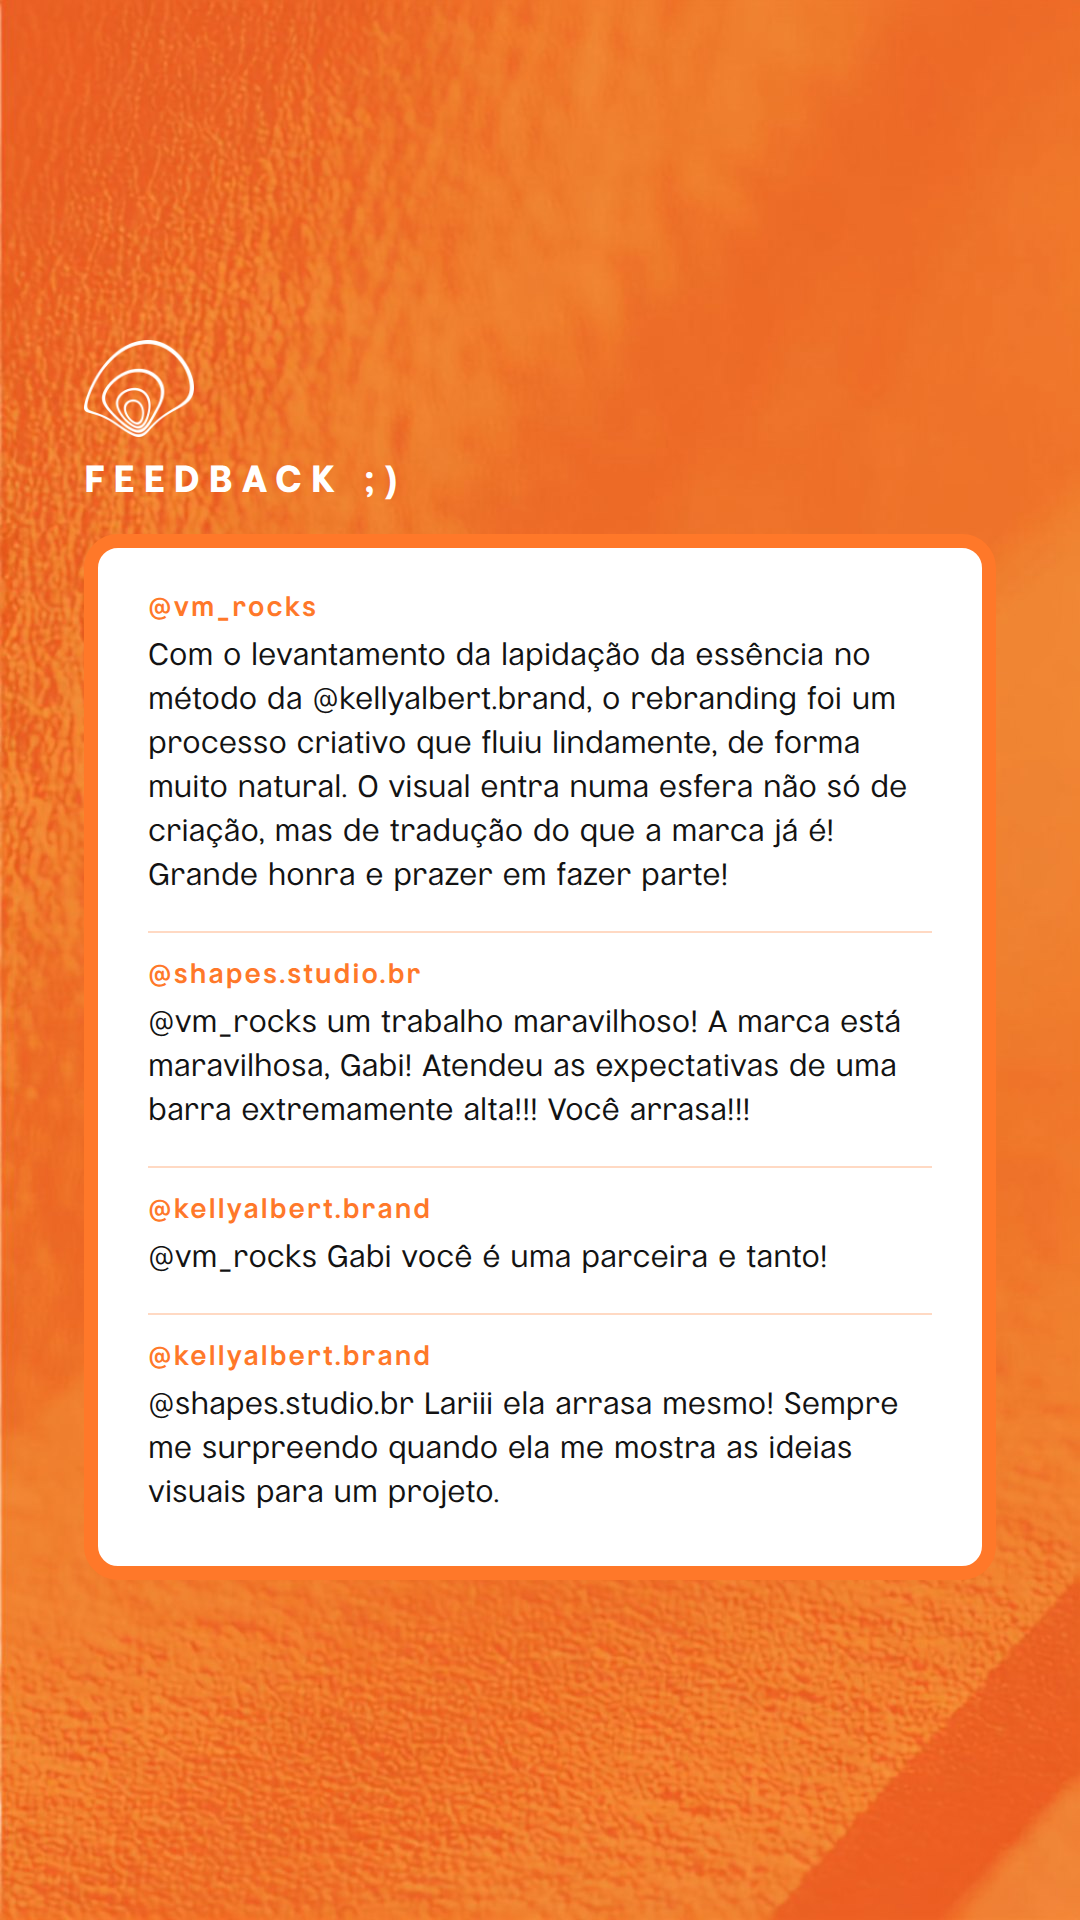
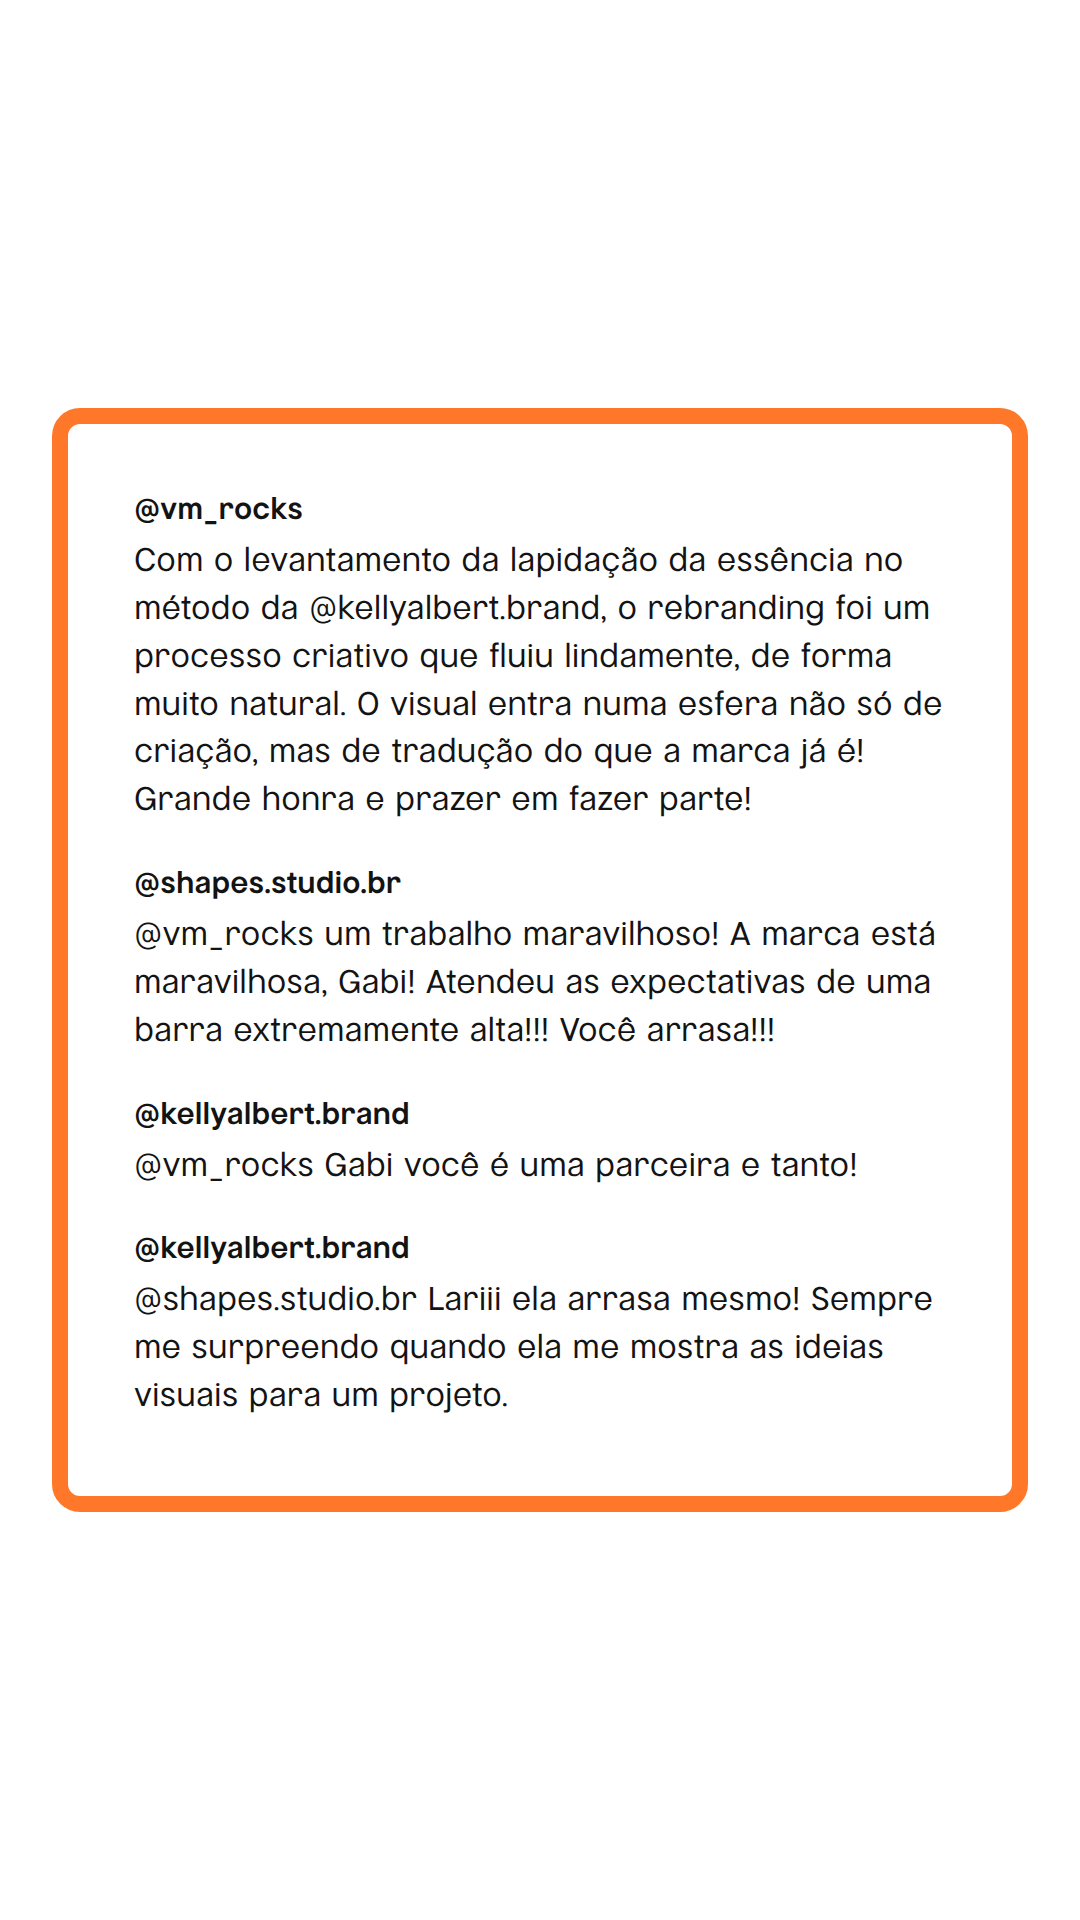
Reduz o card dos comentarios a borda laranja
A Kelly pediu so a borda: sem "FEEDBACK ;)", sem fundo texturizado e sem
trocar a cor de nenhum texto. Fala e @ agora saem os dois em #131313, a
tinta do sistema da Shapes.

O laranja #FF7829 da borda virou o unico elemento de marca da peca. E ele
que a faz ser da Shapes, entao o tom nao pode mudar.

A borda fica recuada 52 px da aresta: story tem area de corte, e borda
colada na beira e a primeira coisa que o aplicativo come.

Claude-Session: https://claude.ai/code/session_015YunUeG4gdRR6urYHdkvAD

diff --git a/arte/shapes/cards-feedback-shapes.html b/arte/shapes/cards-feedback-shapes.html
@@ -2,23 +2,19 @@
 <html lang="pt-BR">
 <head>
 <meta charset="UTF-8">
-<title>Card de feedback · Shapes</title>
+<title>Comentários do case · Shapes</title>
 <!--
-  MOLDURA OFICIAL DE FEEDBACK DA SHAPES, com a thread inteira.
-  Estrutura, cores, tipografia e logo vêm de card-storie-shapes-feedback.
+  OS COMENTÁRIOS DO POST DO CASE, COM BORDA LARANJA. Só isso.
 
-  DUAS MUDANÇAS DECLARADAS sobre o padrão:
+  Sem "FEEDBACK ;)", sem fundo texturizado, sem @ colorido: a Kelly pediu
+  a peça reduzida à borda. O laranja #FF7829 é o da Shapes e é o único
+  elemento de marca que restou — é ele que faz a peça ser da Shapes.
 
-  1. SEM ESTRELAS. A linha de estrelas representa uma NOTA. Comentário de
-     Instagram não tem nota: marcar cinco seria fabricar um dado que
-     ninguém deu, e a regra da marca proíbe fabricar depoimento.
-
-  2. BORDA LARANJA no card branco. Sem ela, card branco sobre fundo
-     laranja texturizado não tem aresta: o branco só vaza no fundo. A
-     borda fecha o card e é o que sustenta quatro vozes num bloco só.
+  Texto em #131313, a tinta do sistema da marca, igual para fala e para
+  @: nenhuma cor de texto foi trocada.
 
   CONTEÚDO: transcrição literal dos quatro comentários, sem corte e sem
-  reescrita. Só a quebra de linha é nossa, que é o que a regra pede.
+  reescrita.
 -->
 <style>
 @font-face{font-family:'Montilla';font-weight:300;font-style:normal;src:url('../../assets/shapes/feedback/fonts/montilla-300.woff2') format('woff2');}
@@ -29,55 +25,46 @@
 :root{--orange:#FF7829;--ink:#131313;--brandfont:'Montilla',system-ui,sans-serif;}
 *{box-sizing:border-box;margin:0;padding:0;}
 body{background:#eee;display:flex;flex-wrap:wrap;gap:24px;justify-content:center;}
+
 .postcard{--h:1920px;position:relative;width:1080px;height:var(--h);overflow:hidden;
-  background:var(--orange);font-family:var(--brandfont);}
-.bg{position:absolute;inset:0;width:100%;height:100%;object-fit:cover;object-position:center;z-index:0;}
-.content{position:absolute;inset:0;display:flex;flex-direction:column;justify-content:center;
-  align-items:flex-start;padding:96px 84px;z-index:2;}
-.logo{width:110px;height:auto;display:block;margin-bottom:26px;}
-.kicker{color:#fff;font-weight:700;font-size:38px;letter-spacing:9px;text-transform:uppercase;margin-bottom:30px;}
+  background:#fff;font-family:var(--brandfont);
+  display:flex;align-items:center;justify-content:center;padding:52px;}
 
-/* Card branco com a borda que a Kelly pediu. */
-.cardbox{width:100%;background:#fff;border:14px solid var(--orange);border-radius:34px;
-  padding:48px 50px;}
+/* A borda. Recuada da aresta do quadro porque story tem area de corte:
+   borda colada na beira e a primeira coisa que o aplicativo come. */
+.moldura{width:100%;border:16px solid var(--orange);border-radius:28px;
+  padding:72px 66px;}
 
-/* Cada voz é um bloco: @ em laranja, fala em tinta. O fio separa as
-   vozes sem virar uma caixa dentro da outra. */
-.fala + .fala{margin-top:30px;padding-top:30px;border-top:2px solid rgba(255,120,41,0.28);}
-.quem{color:var(--orange);font-weight:600;font-size:27px;letter-spacing:2px;margin-bottom:12px;}
-.diz{font-weight:400;color:var(--ink);font-size:31px;line-height:1.42;white-space:pre-line;}
+.fala + .fala{margin-top:42px;}
+.quem{color:var(--ink);font-weight:600;font-size:30px;margin-bottom:12px;}
+.diz{color:var(--ink);font-weight:400;font-size:33px;line-height:1.45;}
 </style>
 </head>
 <body>
 
 <div class="postcard" style="--h:1920px">
-  <img class="bg" src="../../assets/shapes/feedback/fundo-shapes.jpg" alt="">
-  <div class="content">
-    <img class="logo" src="../../assets/shapes/feedback/shapes-logo-branco.png" alt="Shapes">
-    <div class="kicker">FEEDBACK ;)</div>
-    <div class="cardbox">
+  <div class="moldura">
 
-      <div class="fala">
-        <div class="quem">@vm_rocks</div>
-        <div class="diz">Com o levantamento da lapidação da essência no método da @kellyalbert.brand, o rebranding foi um processo criativo que fluiu lindamente, de forma muito natural. O visual entra numa esfera não só de criação, mas de tradução do que a marca já é! Grande honra e prazer em fazer parte!</div>
-      </div>
-
-      <div class="fala">
-        <div class="quem">@shapes.studio.br</div>
-        <div class="diz">@vm_rocks um trabalho maravilhoso! A marca está maravilhosa, Gabi! Atendeu as expectativas de uma barra extremamente alta!!! Você arrasa!!!</div>
-      </div>
-
-      <div class="fala">
-        <div class="quem">@kellyalbert.brand</div>
-        <div class="diz">@vm_rocks Gabi você é uma parceira e tanto!</div>
-      </div>
-
-      <div class="fala">
-        <div class="quem">@kellyalbert.brand</div>
-        <div class="diz">@shapes.studio.br Lariii ela arrasa mesmo! Sempre me surpreendo quando ela me mostra as ideias visuais para um projeto.</div>
-      </div>
-
+    <div class="fala">
+      <div class="quem">@vm_rocks</div>
+      <div class="diz">Com o levantamento da lapidação da essência no método da @kellyalbert.brand, o rebranding foi um processo criativo que fluiu lindamente, de forma muito natural. O visual entra numa esfera não só de criação, mas de tradução do que a marca já é! Grande honra e prazer em fazer parte!</div>
     </div>
+
+    <div class="fala">
+      <div class="quem">@shapes.studio.br</div>
+      <div class="diz">@vm_rocks um trabalho maravilhoso! A marca está maravilhosa, Gabi! Atendeu as expectativas de uma barra extremamente alta!!! Você arrasa!!!</div>
+    </div>
+
+    <div class="fala">
+      <div class="quem">@kellyalbert.brand</div>
+      <div class="diz">@vm_rocks Gabi você é uma parceira e tanto!</div>
+    </div>
+
+    <div class="fala">
+      <div class="quem">@kellyalbert.brand</div>
+      <div class="diz">@shapes.studio.br Lariii ela arrasa mesmo! Sempre me surpreendo quando ela me mostra as ideias visuais para um projeto.</div>
+    </div>
+
   </div>
 </div>
 

diff --git a/arte/shapes/LEIA-ME-feedback.md b/arte/shapes/LEIA-ME-feedback.md
@@ -1,42 +1,35 @@
-# Card de feedback · Shapes
+# Comentários do case · Shapes
 
-A thread inteira do post do case, num card só, na moldura oficial de
-feedback da Shapes.
+Os quatro comentários do post, num card só, com borda laranja.
 
 | Arquivo | Formato |
 |---|---|
 | `feedback-thread-shapes-story.png` | 1080×1920 |
 
-Estrutura, cores, tipografia e logo vêm do padrão oficial da marca
-(`card-storie-shapes-feedback`).
+## Só a borda
 
-## Duas mudanças declaradas sobre o padrão
+A peça foi reduzida ao pedido: sem "FEEDBACK ;)", sem fundo texturizado,
+sem `@` colorido. Texto todo em `#131313`, a tinta do sistema da Shapes,
+igual para a fala e para o `@` — nenhuma cor de texto foi trocada.
 
-**Borda laranja no card branco.** Sem ela, card branco sobre fundo laranja
-texturizado não tem aresta: o branco só vaza no fundo. A borda fecha o
-card, e é ela que sustenta quatro vozes num bloco só.
+O laranja `#FF7829` da borda é o único elemento de marca que restou. **É
+ele que faz a peça ser da Shapes**, então ele não pode mudar de tom.
 
-**Sem estrelas.** O layout oficial traz uma linha de cinco estrelas
-douradas, que representa uma **nota**. Comentário de Instagram não tem
-nota: marcar cinco seria fabricar um dado que ninguém deu, e a regra da
-marca proíbe fabricar depoimento.
+A borda fica recuada 52 px da aresta do quadro: story tem área de corte, e
+borda colada na beira é a primeira coisa que o aplicativo come.
 
 ## Transcrição
 
-Literal, os quatro comentários, sem corte e sem reescrita. Só a quebra de
-linha é nossa, que é o que a regra da marca pede. As menções (`@vm_rocks`,
-`@shapes.studio.br`) ficaram no corpo da fala, porque numa thread elas são
-o que mostra quem responde a quem.
-
-Cada voz leva o `@` de quem falou, em laranja, e um fio separa uma da
-outra — sem virar caixa dentro de caixa.
+Literal, os quatro comentários, sem corte e sem reescrita. As menções
+(`@vm_rocks`, `@shapes.studio.br`) ficaram no corpo da fala: numa thread
+são elas que mostram quem responde a quem.
 
 ## Só no formato story
 
 Os quatro comentários pedem cerca de 1200 px de altura de texto. No feed
-1080×1350 isso só caberia reduzindo o corpo para perto de 26 px, o que
-não se lê no celular. Se precisar de uma versão para o feed, o caminho é
-separar em dois cards, não encolher a fonte.
+1080×1350 isso só caberia reduzindo o corpo para perto de 26 px, o que não
+se lê no celular. Para feed, o caminho é separar em dois cards, não
+encolher a fonte.
 
 ## Montilla
 
